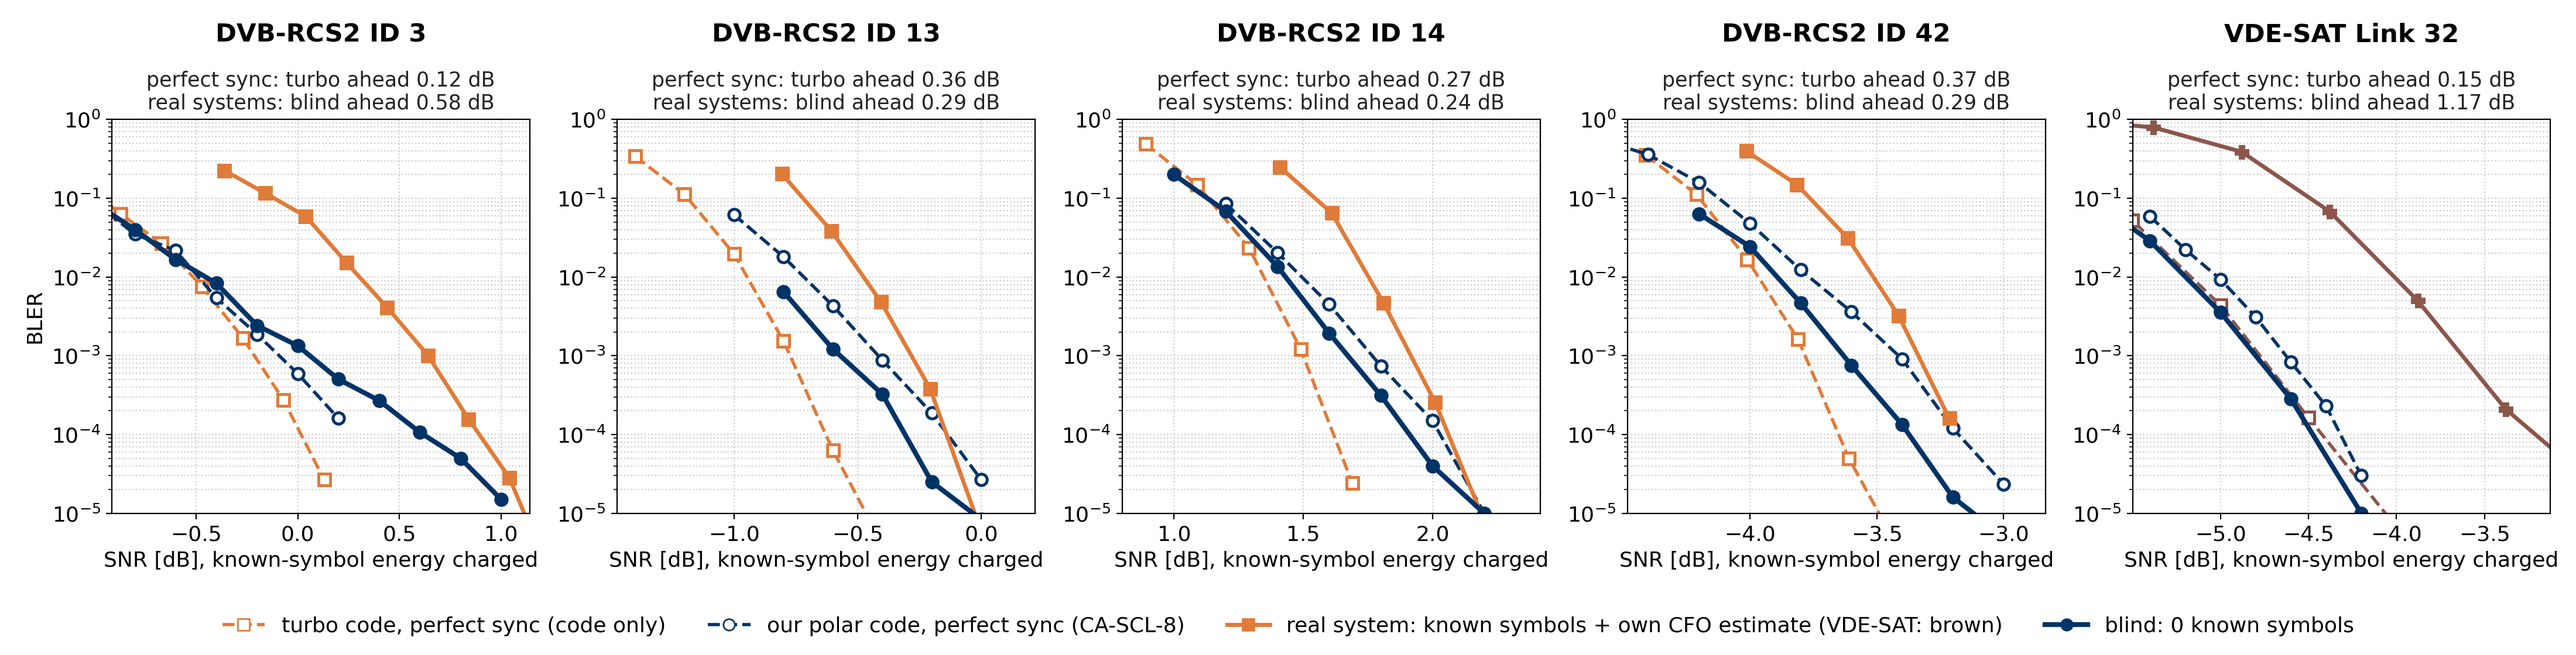
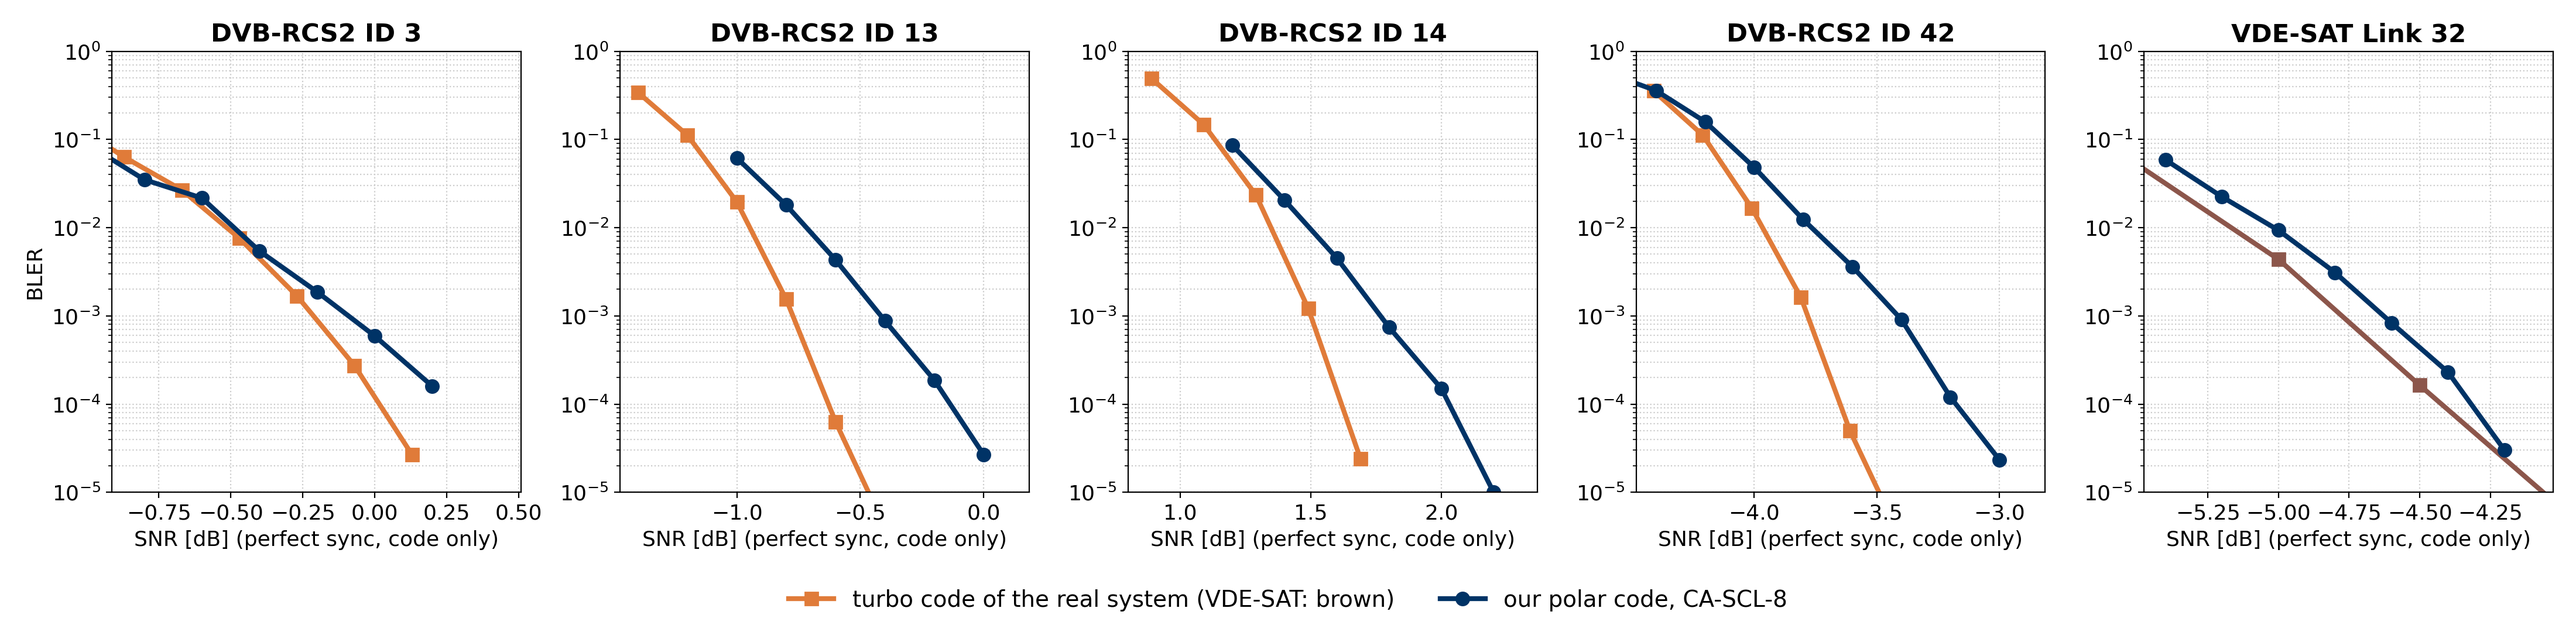
Slides: genie plot code-only (turbo vs polar, perfect sync); legends without 'jointly tuned'

Changed region(s): [[0.0, 0.0306, 0.9964, 0.8861], [0.0934, 0.9167, 0.9341, 0.9778], [0.0, 0.3972, 0.0311, 0.5194]]

diff --git a/BLIND_IMPLEMENTATION/presentation/fullsys/plot_genie.py b/BLIND_IMPLEMENTATION/presentation/fullsys/plot_genie.py
@@ -24,7 +24,7 @@ RES = os.path.join(HERE, "..", "..", "..", "fullsys", "results")
 D = json.load(open(os.path.join(HERE, "data", "fullsys_6350b72.json")))
 NAVY, ORANGE, BROWN = "#003366", "#E07B39", "#8c564b"
 plt.rcParams.update({"font.size": 13, "font.family": "DejaVu Sans"})
-XL = "SNR [dB], known-symbol energy charged"
+XL = "SNR [dB] (perfect sync, code only)"
 SYS = [("id3", "DVB-RCS2 ID 3", ["rcs2_fs-q3ti"], ["polar_genie_fs-q3pg8"], ORANGE),
        ("id13", "DVB-RCS2 ID 13", ["rcs2_fs-rcs2v13"], ["polar_genie_fs-pgga-13"], ORANGE),
        ("id14s", "DVB-RCS2 ID 14", ["rcs2_fs-rcs2v14"], ["polar_genie_fs-pgga-14s"], ORANGE),
@@ -61,28 +61,21 @@ for key, name, tu, po, col in SYS:
     snap[key] = dict(name=name, turbo_genie=pool(tu), polar_genie=pool(po), real=real, blind=blind, shift_db=sh)
 json.dump(snap, open(os.path.join(HERE, "data", "genie_fullsys.json"), "w"), indent=1)
 
-f, ax = plt.subplots(1, 5, figsize=(22, 5.6))
+f, ax = plt.subplots(1, 5, figsize=(22, 5.4))
 for a, (key, name, tu, po, col) in zip(ax, SYS):
     s = snap[key]
-    for k, sty, c, lw, mfc in (("turbo_genie", "--s", col, 2, "white"), ("polar_genie", "--o", NAVY, 2, "white"),
-                               ("real", "-s" if key != "vde" else "-P", col, 2.5, col), ("blind", "-o", NAVY, 3, NAVY)):
+    for k, sty, c in (("turbo_genie", "-s", col), ("polar_genie", "-o", NAVY)):
         x = [p["es"] for p in s[k] if p["err"] > 0]; y = [p["err"] / p["n"] for p in s[k] if p["err"] > 0]
-        a.semilogy(x, y, sty, color=c, lw=lw, ms=7, mfc=mfc, mew=1.8)
+        a.semilogy(x, y, sty, color=c, lw=3, ms=8)
     xt, xp, xr, xb = (cross(s[k]) for k in ("turbo_genie", "polar_genie", "real", "blind"))
     s["x1e-3"] = dict(turbo_genie=xt, polar_genie=xp, real=xr, blind=xb)
-    a.text(0.5, 1.015, f"perfect sync: turbo ahead {xp - xt:.2f} dB\nreal systems: blind ahead {xr - xb:.2f} dB",
-           transform=a.transAxes, ha="center", va="bottom", fontsize=12.5, color="#222222")
-    lo = min(xt, xb) - 0.7; a.set_xlim(lo, max(xr, xp) + 0.5); a.set_ylim(1e-5, 1)
-    a.set_title(name, fontweight="bold", pad=48); a.grid(True, which="both", ls=":", color="#cccccc"); a.set_xlabel(XL)
+    a.set_xlim(min(xt, xp) - 0.7, max(xt, xp) + 0.6); a.set_ylim(1e-5, 1)
+    a.set_title(name, fontweight="bold"); a.grid(True, which="both", ls=":", color="#cccccc"); a.set_xlabel(XL)
     if a is ax[0]:
         a.set_ylabel("BLER")
-H = [plt.Line2D([], [], ls="--", marker="s", color=ORANGE, mfc="white", lw=2, ms=7),
-     plt.Line2D([], [], ls="--", marker="o", color=NAVY, mfc="white", lw=2, ms=7),
-     plt.Line2D([], [], ls="-", marker="s", color=ORANGE, lw=2.5, ms=7),
-     plt.Line2D([], [], ls="-", marker="o", color=NAVY, lw=3, ms=7)]
-f.legend(H, ["turbo code, perfect sync (code only)", "our polar code, perfect sync (CA-SCL-8)",
-             "real system: known symbols + own CFO estimate (VDE-SAT: brown)", "blind: 0 known symbols"],
-         loc="lower center", ncol=4, frameon=False, fontsize=13)
+H = [plt.Line2D([], [], ls="-", marker="s", color=ORANGE, lw=3, ms=8), plt.Line2D([], [], ls="-", marker="o", color=NAVY, lw=3, ms=8)]
+f.legend(H, ["turbo code of the real system (VDE-SAT: brown)", "our polar code, CA-SCL-8"], loc="lower center", ncol=2,
+         frameon=False, fontsize=14)
 f.tight_layout(rect=(0, 0.09, 1, 1)); f.savefig(os.path.join(HERE, "fs_genie.png"), dpi=200); plt.close(f)
 json.dump(snap, open(os.path.join(HERE, "data", "genie_fullsys.json"), "w"), indent=1)
 for k, s in snap.items():

diff --git a/BLIND_IMPLEMENTATION/presentation/fullsys/plot_fullsys.py b/BLIND_IMPLEMENTATION/presentation/fullsys/plot_fullsys.py
@@ -84,7 +84,7 @@ for a, fmt in zip(ax, DVB):
     hc, = a.semilogy(*nz(ce, cp), "--s", color=ORANGE, lw=2, ms=7)
     a.set_title(f"{d['name']} ({d['desc'].replace('pi/2', 'π/2')})", fontweight="bold")
     style(a, XL, "BLER" if a is ax[0] else None)
-legend_below(f, [hb, hc], ["blind, 0 known symbols (jointly tuned)", "DVB-RCS2, known symbols + own data-aided CFO estimate"], 2)
+legend_below(f, [hb, hc], ["blind, 0 known symbols", "DVB-RCS2, known symbols + own data-aided CFO estimate"], 2)
 f.tight_layout(rect=(0, 0.1, 1, 1)); f.savefig(os.path.join(HERE, "fs_dvb_bler.png"), dpi=200); plt.close(f)
 
 # 2) DVB-RCS2 MACs
@@ -96,7 +96,7 @@ for a, fmt in zip(ax, DVB):
     mticks(a, list(np.array(tm) / 1e6) + list(np.array(cm) / 1e6))
     a.set_title(f"{d['name']} ({d['desc'].replace('pi/2', 'π/2')})", fontweight="bold")
     style(a, XL, "mean MACs per core [M] (32 cores)" if a is ax[0] else None)
-legend_below(f, [hb, hc], ["blind, 0 known symbols (jointly tuned)", "DVB-RCS2 (synchroniser + turbo decoder)"], 2)
+legend_below(f, [hb, hc], ["blind, 0 known symbols", "DVB-RCS2 (synchroniser + turbo decoder)"], 2)
 f.tight_layout(rect=(0, 0.1, 1, 1)); f.savefig(os.path.join(HERE, "fs_dvb_macs.png"), dpi=200); plt.close(f)
 
 # 3) VDE-SAT: BLER and MACs vs Eb/N0
@@ -113,7 +113,7 @@ ax[1].plot(fe, np.array(fm) / 1e6, "-o", color=NAVY, lw=3, ms=8)
 ax[1].plot(ce, np.array(cm) / 1e6, "--P", color=BROWN, lw=2, ms=8)
 mticks(ax[1], list(np.array(fm) / 1e6) + list(np.array(cm) / 1e6))
 ax[1].set_title("mean MACs per core [M] (32 cores)", fontweight="bold"); style(ax[1], XL)
-legend_below(f, [hb, hc], ["blind, 0 known symbols (jointly tuned)",
+legend_below(f, [hb, hc], ["blind, 0 known symbols",
                            f"VDE-SAT ({V['known']} known: syncwords + pilots)"], 2)
 f.tight_layout(rect=(0, 0.1, 1, 1)); f.savefig(os.path.join(HERE, "fs_vde.png"), dpi=200); plt.close(f)
 
